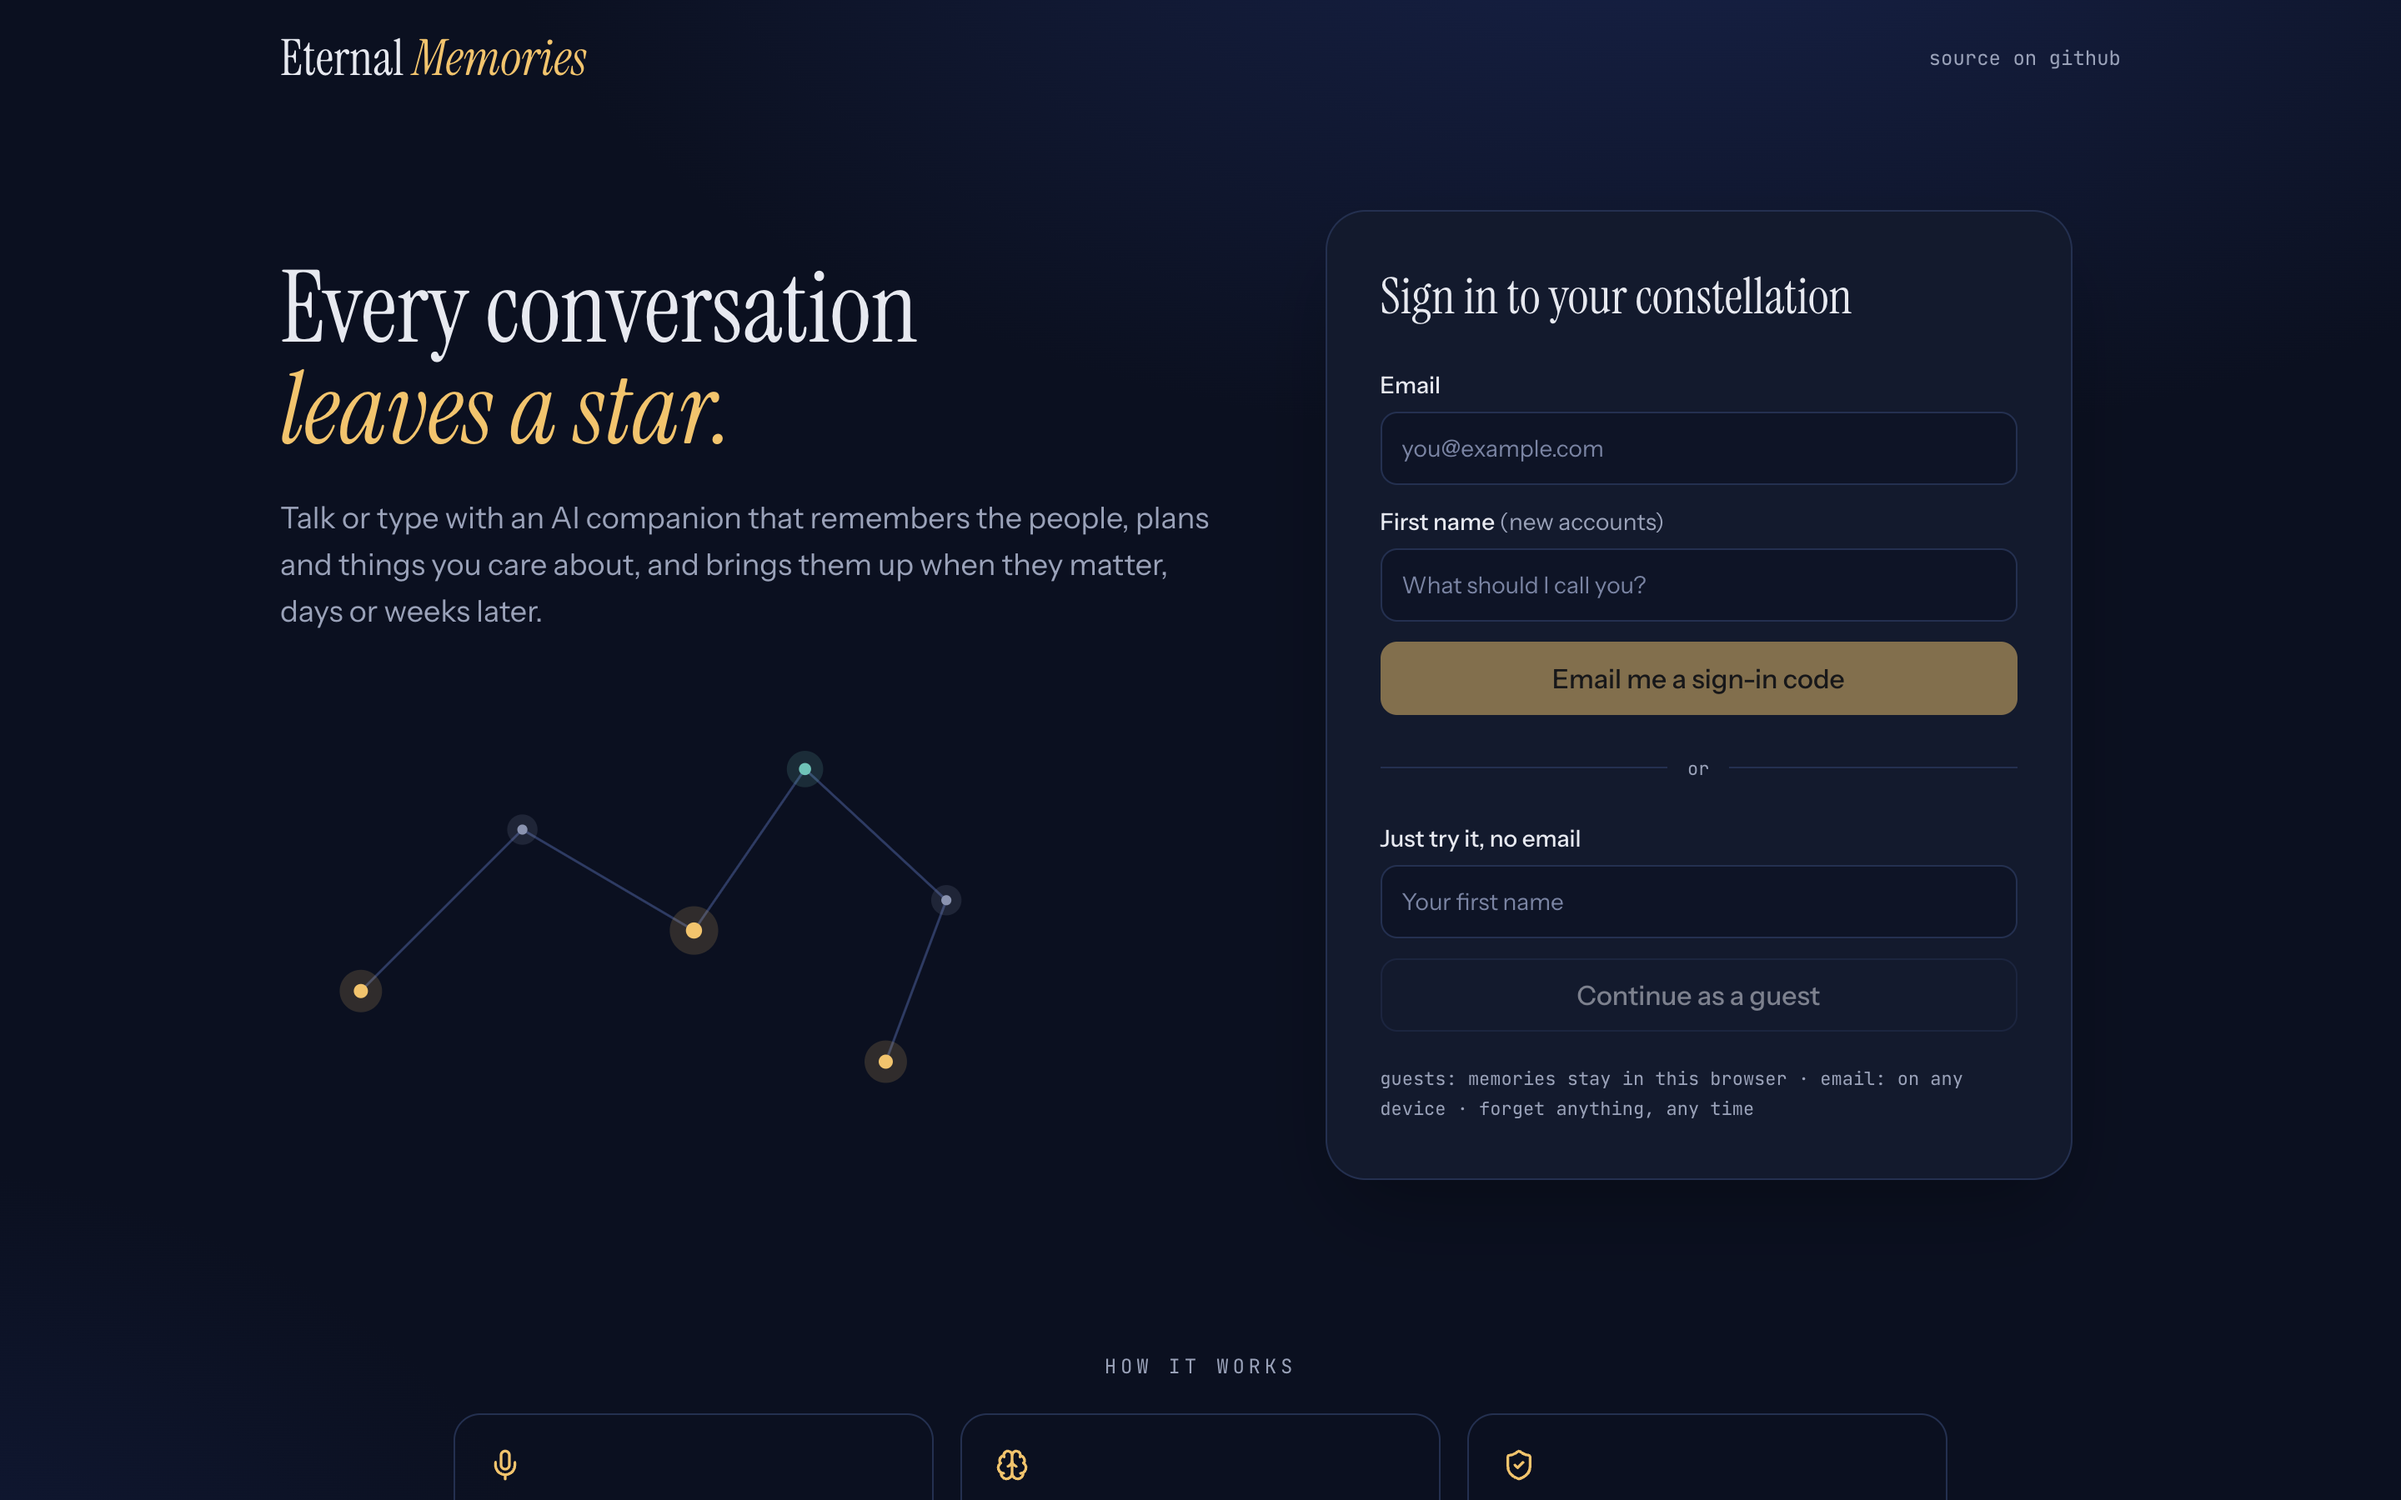
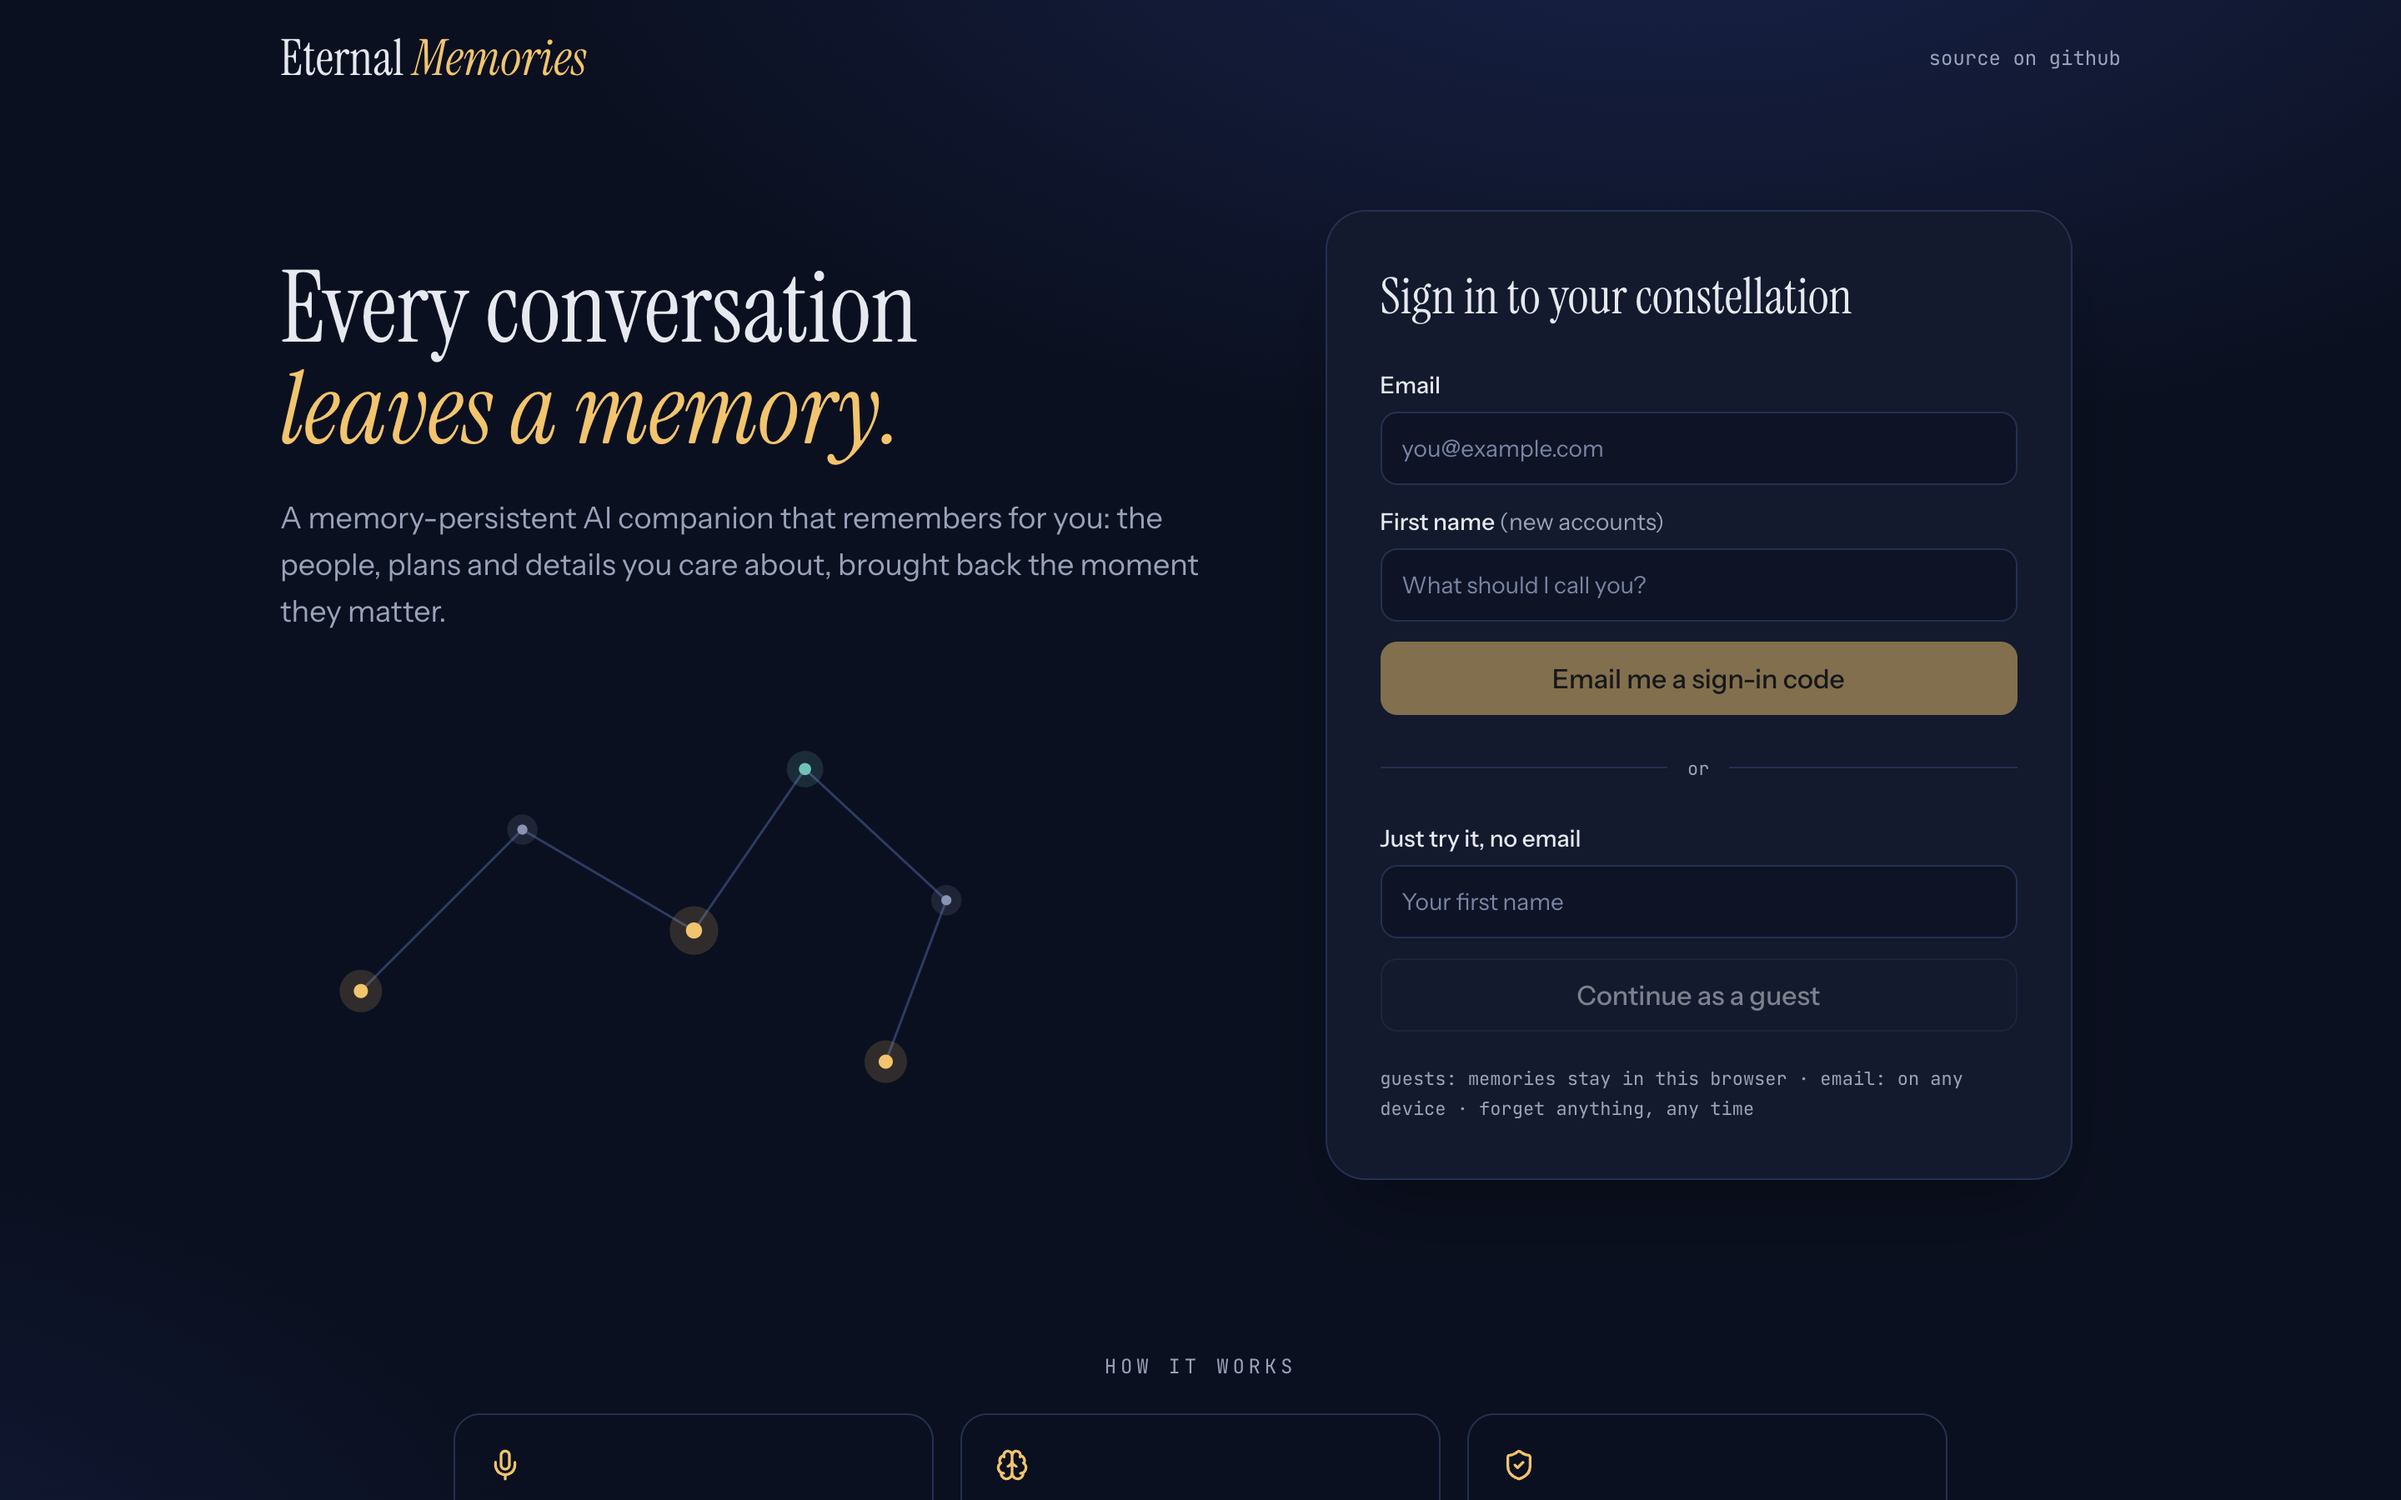
Lead with persistent memory: "Every conversation leaves a memory"
Headline, subheadline, page title, meta description, social preview,
empty-chat line and README now lead with the benefit (it remembers for
you) instead of the star metaphor. Welcome screenshot retaken.

Changed region(s): [[0.125, 0.3422, 0.5, 0.4356], [0.2188, 0.2489, 0.375, 0.3111]]

diff --git a/app/opengraph-image.tsx b/app/opengraph-image.tsx
@@ -1,7 +1,7 @@
 import { ImageResponse } from "next/og"
 import { SITE_DESCRIPTION } from "@/lib/site"
 
-export const alt = "Eternal Memories: an AI companion that remembers, shown as a constellation of stars"
+export const alt = "Eternal Memories: an AI companion with persistent memory, shown as a constellation of stars"
 export const size = { width: 1200, height: 630 }
 export const contentType = "image/png"
 
@@ -42,7 +42,7 @@ export default function OpengraphImage() {
         </svg>
         <div style={{ display: "flex", flexDirection: "column", justifyContent: "center", padding: "0 80px", width: 700 }}>
           <div style={{ fontSize: 30, color: "#f2c46d", letterSpacing: 4, fontFamily: "monospace" }}>ETERNAL MEMORIES</div>
-          <div style={{ fontSize: 76, lineHeight: 1.05, marginTop: 24 }}>Every conversation leaves a star.</div>
+          <div style={{ fontSize: 76, lineHeight: 1.05, marginTop: 24 }}>Every conversation leaves a memory.</div>
           <div style={{ fontSize: 28, lineHeight: 1.4, marginTop: 28, color: "#9aa2b9", fontFamily: "sans-serif" }}>
             {`${SITE_DESCRIPTION.split(". Built")[0]}.`}
           </div>

diff --git a/app/components/Landing.tsx b/app/components/Landing.tsx
@@ -38,11 +38,11 @@ export default function Landing({ session, emailSignInEnabled }: LandingProps) {
         <section className="grid items-center gap-10 py-8 sm:py-14 lg:grid-cols-[1.1fr_1fr]">
           <div>
             <h1 className="font-serif text-5xl leading-[1.02] text-balance sm:text-6xl">
-              Every conversation <i className="text-star">leaves a star.</i>
+              Every conversation <i className="text-star">leaves a memory.</i>
             </h1>
             <p className="mt-5 max-w-xl text-lg text-muted">
-              Talk or type with an AI companion that remembers the people, plans and things you care about, and
-              brings them up when they matter, days or weeks later.
+              A memory-persistent AI companion that remembers for you: the people, plans and details you care
+              about, brought back the moment they matter.
             </p>
             <svg viewBox="0 0 370 220" className="mt-8 hidden w-full max-w-md sm:block" aria-hidden="true">
               {STARS.slice(1).map((s, i) => (

diff --git a/tests/e2e/chat.mocked.spec.ts b/tests/e2e/chat.mocked.spec.ts
@@ -4,7 +4,7 @@ import { MEMORIES, NEW_MEMORY, REPLY, mockBackend, startSession } from "./mocks"
 test("a new visitor sees the landing page with sign-in and how it works", async ({ page }) => {
   await mockBackend(page)
   await page.goto("/")
-  await expect(page.getByRole("heading", { level: 1, name: /Every conversation leaves a star/ })).toBeVisible()
+  await expect(page.getByRole("heading", { level: 1, name: /Every conversation leaves a memory/ })).toBeVisible()
   await expect(page.getByRole("heading", { name: "Sign in to your constellation" })).toBeVisible()
   await expect(page.getByRole("heading", { name: "How it works" })).toBeVisible()
   await expect(page.getByRole("button", { name: "Email me a sign-in code" })).toBeDisabled()

diff --git a/lib/site.ts b/lib/site.ts
@@ -5,6 +5,6 @@ export const SITE_URL = (
 ).replace(/\/$/, "")
 
 export const SITE_NAME = "Eternal Memories"
-export const SITE_TITLE = "Eternal Memories: an AI companion that remembers"
+export const SITE_TITLE = "Eternal Memories: an AI companion with persistent memory"
 export const SITE_DESCRIPTION =
-  "Talk or type with an AI companion that remembers the people, plans and things you care about, across every conversation. Built with Claude, Supabase pgvector and ElevenLabs voice."
+  "A memory-persistent AI companion that remembers for you: the people, plans and details you care about, brought back the moment they matter. Built with Claude, Supabase pgvector and ElevenLabs voice."

diff --git a/app/components/ChatInterface.tsx b/app/components/ChatInterface.tsx
@@ -50,7 +50,7 @@ export default function ChatInterface({ remainingToday, ...callbacks }: ChatInte
           </p>
         ) : messages.length === 0 ? (
           <div className="mx-auto mt-12 max-w-sm text-center">
-            <p className="font-serif text-2xl">Every conversation leaves a star.</p>
+            <p className="font-serif text-2xl">Every conversation leaves a memory.</p>
             <p className="mt-2 text-sm text-muted">
               Tell me about the people, plans and things you care about. I&apos;ll remember them next time.
             </p>

diff --git a/app/layout.tsx b/app/layout.tsx
@@ -14,7 +14,7 @@ export const metadata: Metadata = {
   description: SITE_DESCRIPTION,
   applicationName: SITE_NAME,
   authors: [{ name: "Benjapon Kruthanooch" }],
-  keywords: ["AI companion", "long-term memory", "Claude", "voice AI", "ElevenLabs", "Supabase pgvector", "Next.js"],
+  keywords: ["AI companion", "persistent memory", "long-term memory", "Claude", "voice AI", "ElevenLabs", "Supabase pgvector", "Next.js"],
   alternates: { canonical: "/" },
   openGraph: {
     type: "website",

diff --git a/README.md b/README.md
@@ -1,8 +1,8 @@
 # Eternal Memories
 
-**An AI companion that remembers.** Talk or type with it, and it keeps the people, plans and
-things you care about as a constellation of memories, then brings them up when they matter,
-days or weeks later. Every memory is visible, and you can make it forget any of them.
+**Every conversation leaves a memory.** A memory-persistent AI companion that remembers for you:
+the people, plans and details you care about, kept as a constellation of memories and brought back
+the moment they matter, days or weeks later. Talk or type with it. Every memory is visible, and you can make it forget any of them.
 
 ![Chatting with Eternal Memories: the reply draws on remembered facts, shown as gold stars](docs/screenshots/chat.png)
 
